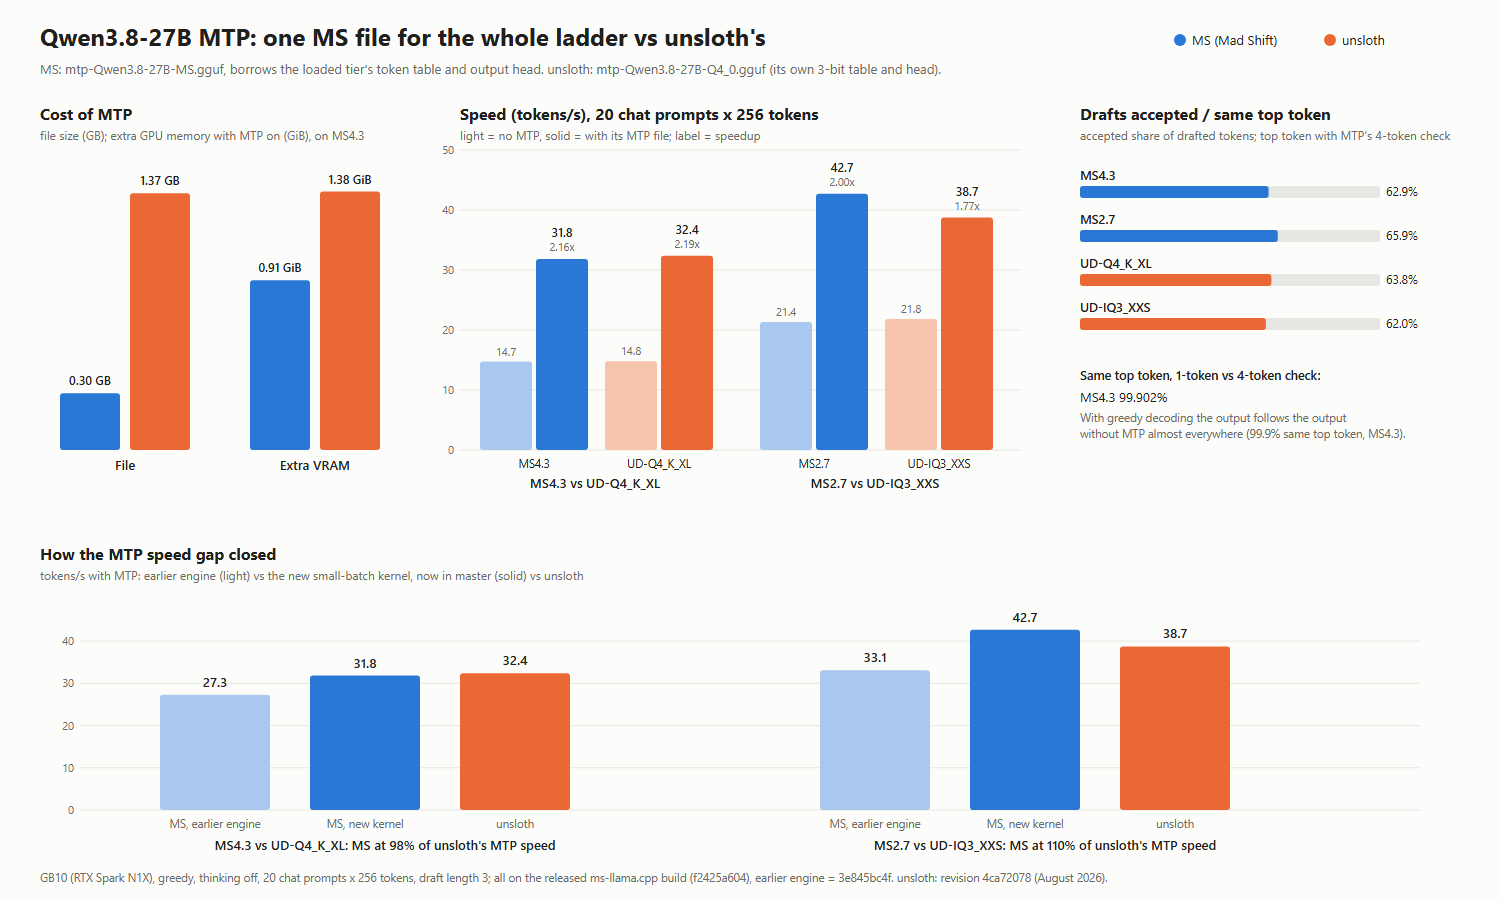
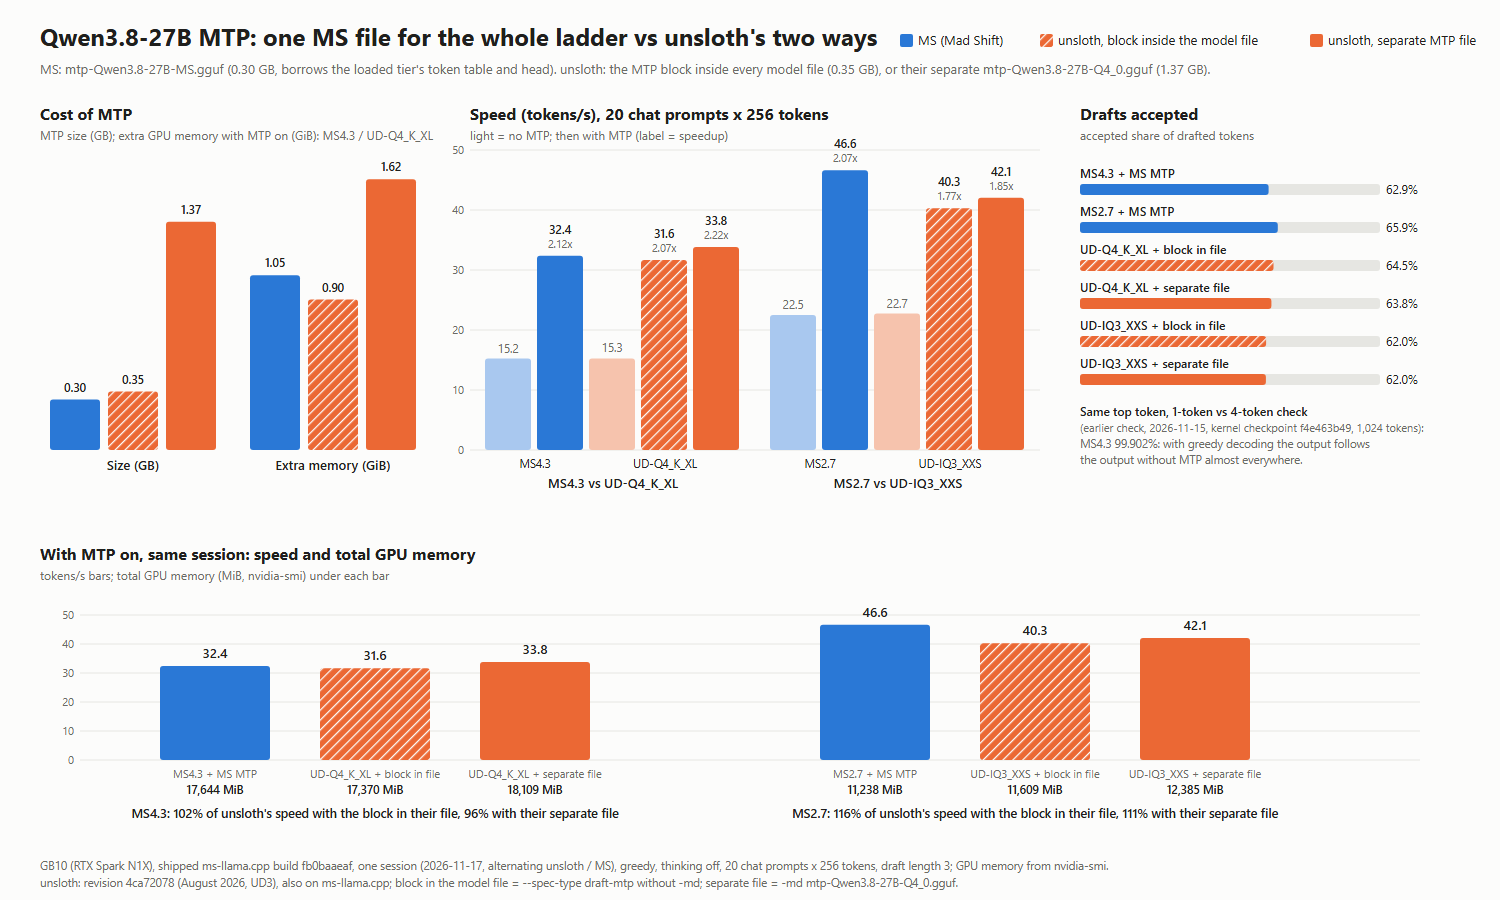
docs : link the MS converter and correct MTP comparison

diff --git a/README.md b/README.md
@@ -4,11 +4,11 @@
 
 - **Accuracy:** 1.61-2.31x lower KL divergence than unsloth's UD3 file of the same size (1): 1.61-1.63x for MS2.7-MS3.5, 1.90-2.31x for MS3.7-MS5.
 - **Top-1:** the most likely next token matches the original BF16 model's 93.8-98.7% of the time, vs 91.8-97.9% for unsloth's UD3 file of the same size: 22-35% fewer mismatches (1).
-- **Speed:** generation about the same as unsloth (98-100% on an RTX Spark, 97% on an RTX 4080 SUPER) (2)(4). MTP doubles it: 2.0-2.2x faster than without MTP, MS4.3 31.8 tokens/s, MS2.7 42.7 tokens/s on an RTX Spark (3); MS2.7 101 vs 97 tokens/s for unsloth's same-size file on an RTX 4080 SUPER (4).
-- **Memory:** every file no larger than its unsloth file, except MS4.3 (+0.09 GB) (1). MTP adds ~0.9 GiB; unsloth's MTP file adds ~1.4 GiB on the same file (~1.7 GiB with their own files) (3).
-- **MTP:** our own MS-coded MTP file, 0.30 GB, one for every size (it borrows the loaded file's token table and output head); unsloth's is 1.37 GB. It drafts as well as unsloth's 4.5x larger MTP file and runs a little faster: on the same MS4.3 file 62.9% vs 62.5% of drafts accepted, 31.8 vs 29.7 tokens/s (3).
+- **Speed:** generation about the same as unsloth (98-100% on an RTX Spark, 97% on an RTX 4080 SUPER) (2)(4). MTP doubles it: 2.1x faster than without MTP, MS4.3 32.4 tokens/s, MS2.7 46.6 tokens/s on an RTX Spark (3); MS2.7 101 vs 97 tokens/s for unsloth's same-size file with their separate MTP file on an RTX 4080 SUPER (4).
+- **Memory:** every file no larger than its unsloth file, except MS4.3 (+0.09 GB) (1). MTP adds about 0.9-1.0 GiB, about as much as the MTP block inside unsloth's files (their separate MTP file adds 1.6-1.7 GiB) (3).
+- **MTP:** our own MS-coded MTP file, 0.30 GB; one file serves every size (it borrows the loaded file's token table and output head). Against the MTP block inside unsloth's files, MS2.7 is 16% faster with less GPU memory, and MS4.3 is about as fast, with 274 MiB more GPU memory (3).
 
-<sub>(1) KL divergence from the original BF16 model, mean over four English texts; top-1 = how often the quantized model's most likely next token is the BF16 model's. UD3 = Unsloth Dynamic 3, unsloth's files at revision `4ca72078` (August 2026); their sizes without their 351 MB MTP block. (2) Chat benchmark without MTP on an RTX Spark, MS and unsloth files both on ms-llama.cpp. (3) RTX Spark (GB10), 20 chat prompts x 256 tokens, greedy; unsloth's files with their own MTP file, also on ms-llama.cpp; GPU memory from nvidia-smi. (4) RTX 4080 SUPER 16 GB, same benchmark, x64 release build, medians of 3; unsloth's UD-IQ3_XXS with their MTP file reaches 97.1 tokens/s there.</sub>
+<sub>(1) KL divergence from the original BF16 model, mean over four English texts; top-1 = how often the quantized model's most likely next token is the BF16 model's. UD3 = Unsloth Dynamic 3, unsloth's files at revision `4ca72078` (August 2026); their sizes without their 351 MB MTP block. (2) Chat benchmark without MTP on an RTX Spark, MS and unsloth files both on ms-llama.cpp. (3) RTX Spark (GB10), 20 chat prompts x 256 tokens, greedy, one session on the released build; unsloth's files with the MTP block inside the file and with their separate MTP file, also on ms-llama.cpp; GPU memory from nvidia-smi. (4) RTX 4080 SUPER 16 GB, same benchmark, x64 release build, medians of 3; unsloth's UD-IQ3_XXS with their separate MTP file reaches 97.1 tokens/s there (the built-in block was not measured there).</sub>
 
 ![KL divergence vs size](docs/images/qwen3.8-27b_kld.png)
 
@@ -119,26 +119,31 @@ These repositories are private until launch.
 One 0.30 GB MTP file, `mtp-Qwen3.8-27B-MS.gguf`, works with every tier: it holds only the MTP block and borrows the loaded
 tier's token table and output head. `--spec-type draft-mtp` turns it on. The model checks every drafted token.
 
-RTX Spark (GB10), 20 chat prompts x 256 tokens, greedy, both on ms-llama.cpp; unsloth's files with their own MTP file:
+RTX Spark (GB10), 20 chat prompts x 256 tokens, greedy, one session on the released build, all on ms-llama.cpp; unsloth's files with the MTP block inside the model file and with their separate MTP file:
 
-| Model + MTP file | tokens/s | speedup | drafts accepted | extra GPU memory |
+| Model + MTP | tokens/s | speedup | drafts accepted | extra GPU memory |
 |---|---|---|---|---|
-| **MS4.3 + ours** | **31.8** | 2.16x | 62.9% | +0.91 GiB |
-| UD-Q4_K_XL + unsloth's | 32.4 | 2.19x | 63.8% | +1.69 GiB |
-| **MS2.7 + ours** | **42.7** | 2.00x | 65.9% | +0.87 GiB |
-| UD-IQ3_XXS + unsloth's | 38.7 | 1.77x | 62.0% | +1.71 GiB |
+| MS4.3, no MTP | 15.2 | - | - | - |
+| **MS4.3 + ours** | **32.4** | 2.12x | 62.9% | +1.05 GiB |
+| UD-Q4_K_XL, no MTP | 15.3 | - | - | - |
+| UD-Q4_K_XL + MTP block inside the file | 31.6 | 2.07x | 64.5% | +0.90 GiB |
+| UD-Q4_K_XL + unsloth's separate MTP file | 33.8 | 2.22x | 63.8% | +1.62 GiB |
+| MS2.7, no MTP | 22.5 | - | - | - |
+| **MS2.7 + ours** | **46.6** | 2.07x | 65.9% | +0.90 GiB |
+| UD-IQ3_XXS, no MTP | 22.7 | - | - | - |
+| UD-IQ3_XXS + MTP block inside the file | 40.3 | 1.77x | 62.0% | +0.93 GiB |
+| UD-IQ3_XXS + unsloth's separate MTP file | 42.1 | 1.85x | 62.0% | +1.68 GiB |
 
-With MTP on, MS4.3 runs at 98% and MS2.7 at 110% of unsloth's speed. Extra GPU memory is nvidia-smi with MTP on minus off
-(GiB = 1024 MiB); unsloth's MTP file loaded with MS4.3 instead adds ~1.4 GiB.
+With MTP on, MS4.3 runs at 102% of unsloth's speed with the MTP block inside their file and 96% with their separate MTP file; MS2.7 at 116% and 111%. Extra GPU memory is nvidia-smi with MTP on minus off (GiB = 1024 MiB).
 
-On an RTX 4080 SUPER (16 GB), same benchmark, x64 release build, medians of 3:
+On an RTX 4080 SUPER (16 GB), same benchmark, x64 release build, medians of 3, with unsloth's separate MTP file (the built-in block was not measured there):
 
 | Model + MTP file | tokens/s without MTP | with MTP | speedup | drafts accepted | extra GPU memory |
 |---|---|---|---|---|---|
 | **MS2.7 + ours** | 51.1 | **101.2** | 1.98x | 65.7% | +0.91 GiB |
-| UD-IQ3_XXS + unsloth's | 53.0 | 97.1 | 1.83x | 62.3% | +1.67 GiB |
+| UD-IQ3_XXS + unsloth's separate MTP file | 53.0 | 97.1 | 1.83x | 62.3% | +1.67 GiB |
 
-MS2.7 runs at 104% of unsloth's MTP speed there.
+MS2.7 runs at 104% of unsloth's speed with their separate MTP file there.
 
 ## Speed
 
@@ -167,7 +172,7 @@ calibration-aware, layer-by-layer conversion. MS uses the bitshift-trellis const
 2024, [arXiv:2406.11235](https://arxiv.org/abs/2406.11235)). This repository runs MS files; format details are in
 [docs/ms.md](docs/ms.md).
 
-**Making MS files.** The released MS files are made with a separate conversion tool that is not published. A lightweight MS encoder for this fork's `llama-quantize`, built for fast conversion, is in development, so that anyone can make MS files of most models on their own hardware.
+**Making MS files.** The released MS files are made with the MS converter, open source (Apache 2.0) at https://github.com/devvexus/mad-shift-converter. A lightweight MS encoder for this fork's `llama-quantize`, built for fast conversion, is in development, so that anyone can make MS files of most models on their own hardware.
 
 ## Hardware
 
